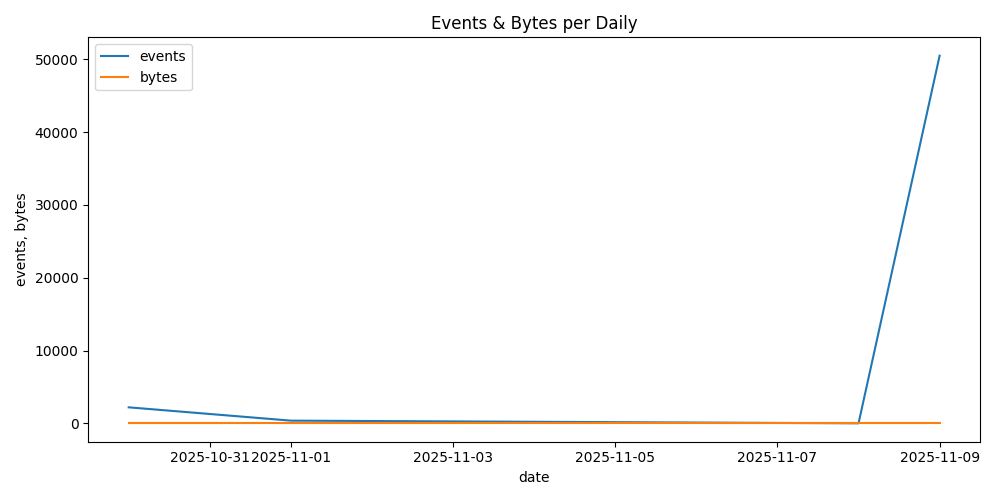
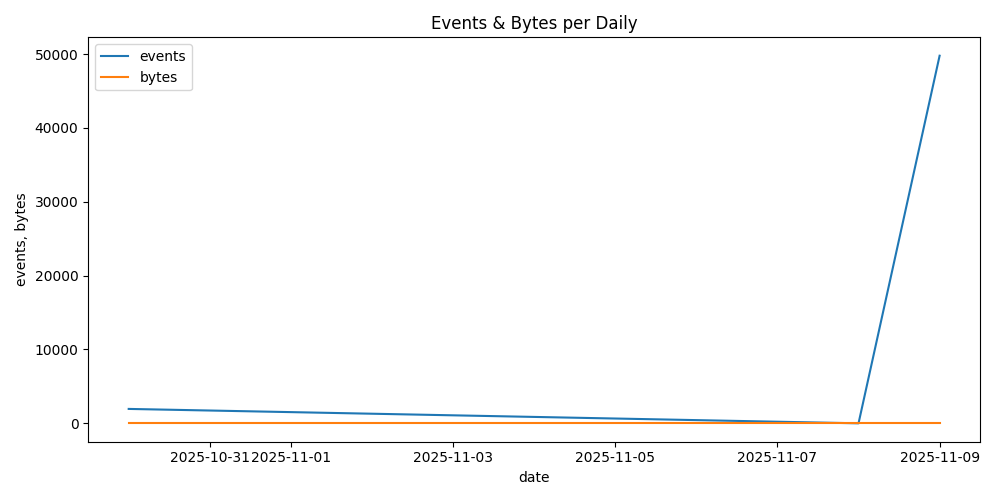
final version

diff --git a/IS Project/firewall.py b/IS Project/firewall.py
@@ -955,28 +955,34 @@ class EnhancedFirewallGUI:
         
         # Scrollable canvas for images
         canvas = tk.Canvas(img_window)
-        scrollbar = tk.Scrollbar(img_window, orient=tk.HORIZONTAL, command=canvas.xview)
-        canvas.configure(xscrollcommand=scrollbar.set)
-        scrollbar.pack(side=tk.BOTTOM, fill=tk.X)
-        canvas.pack(side=tk.TOP, fill=tk.BOTH, expand=True)
+        scrollbar = tk.Scrollbar(img_window, orient=tk.VERTICAL, command=canvas.yview)
+        canvas.configure(yscrollcommand=scrollbar.set)
+        scrollbar.pack(side=tk.RIGHT, fill=tk.Y)
+        canvas.pack(side=tk.LEFT, fill=tk.BOTH, expand=True)
         
         frame = tk.Frame(canvas)
-        canvas.create_window((0,0), window=frame, anchor='nw')
+        canvas.create_window((0,0), window=frame, anchor='n')  # anchor north for vertical scroll
 
+        # Make the single column expand to allow centering
+        frame.grid_columnconfigure(0, weight=1)
+
+        # Add images vertically and center
         for i, img in enumerate(gui_images):
             lbl = tk.Label(frame, image=img)
             lbl.image = img  # keep reference
-            lbl.grid(row=0, column=i, padx=5, pady=5)
+            lbl.grid(row=i, column=0, padx=5, pady=5)  # sticky defaults to center
             self.img_labels.append(lbl)
 
         # Update scrollable area
         frame.update_idletasks()
         canvas.config(scrollregion=canvas.bbox("all"))
 
+        # Report path label
         tk.Label(img_window, text=f"Report saved to: {report_path}", fg="green").pack(pady=5)
 
      except Exception as e:
         messagebox.showerror("Error", f"Failed to generate report:\n{e}")
+
 
 
 # ---------- Main ----------
